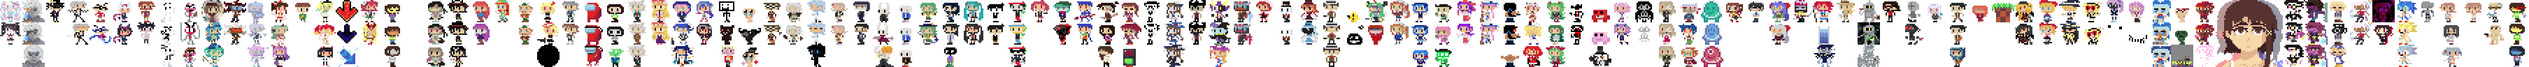
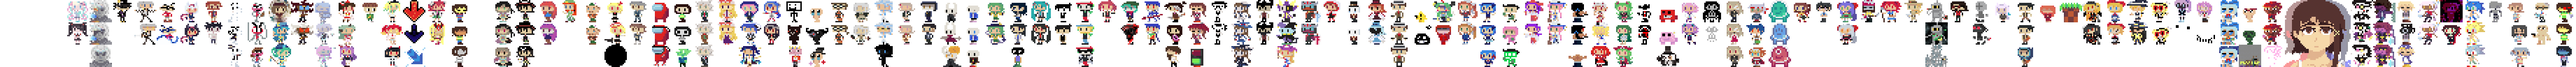
i did

diff --git a/index.html b/index.html
@@ -3,7 +3,7 @@
 
 
 <head>
-    <title>aeon from the internet</title>
+    <title>THE IMPOSSIBLE PIXEL CHALLENGE</title>
     <meta charset="utf-8">
     <meta name="impossible pixels" content="AEON'S IMPOSSIBLE PIXEL CHALLENGE">
 	<link href='https://fonts.googleapis.com/css?family=Philosopher' rel='stylesheet'>
@@ -60,12 +60,24 @@
 	maribel.src = "./pixels/maribel.png";
 	const where = new Image(10, 10);
 	where.src = "./pixels/where.png";
+
+	const hal = new Image(10, 10);
+	hal.src = "./pixels/hal.png";
+	const sakura = new Image(10, 10);
+	sakura.src = "./pixels/sakura.png";
+
+	const unknown = new Image(10, 10);
+	unknown.src = "./pixels/unknown.png";
 //}
 
 //loadimages();
 
 //var yabusame = Array(100).fill([false, false, false]);
 var yabusame = [
+[false, false, false],
+[false, false, false], [false, false, false], [false, false, false], [false, false, false], [false, false, false], [false, false, false], [false, false, false], [false, false, false], [false, false, false], [false, false, false],
+[false, false, false], [false, false, false], [false, false, false], [false, false, false], [false, false, false], [false, false, false], [false, false, false], [false, false, false], [false, false, false], [false, false, false],
+
 [false, false, false], [false, false, false], [false, false, false], [false, false, false], [false, false, false], [false, false, false], [false, false, false], [false, false, false], [false, false, false], [false, false, false],
 [false, false, false], [false, false, false], [false, false, false], [false, false, false], [false, false, false], [false, false, false], [false, false, false], [false, false, false], [false, false, false], [false, false, false],
 [false, false, false], [false, false, false], [false, false, false], [false, false, false], [false, false, false], [false, false, false], [false, false, false], [false, false, false], [false, false, false], [false, false, false],
@@ -422,10 +434,10 @@ new pixelguy(["Kakkoi"], ["game"], "Gensokyo Odyssey", "comment")],
 new pixelguy(["Stephanie Lazarus Stephens", "lazarus"], ["game?"], "Stephanie Lazarus Stephens", ":)")],
 
 [new pixelguy(["Fuku Tohri", "fuku", "aeon", "minecraft", "thing"], ["player"], "Aeon", "Giving my own Minecraft skin such a name?\nNah, she's too cool to be stuck on blockgame.\nOne of these days, she'll probably meet the mediator.", true),
-new pixelguy(["when the im.png", "sus", "jerma", "impostor", "test", "when"], ["file"], "i made it", "when the um if the impostor was there was going to be an impostor and he could um if he was could have been any of us you wouldnt really like probably um actually dont worry about it", true),
-new pixelguy(["s_mistake", "mistake"], ["file"], "i made it", "", true)],
+new pixelguy(["when the im.png", "sus", "jerma", "impostor", "test", "when"], ["file"], "i made it", "when the um if the impostor was there was going to be an impostor and he could um if he was could have been any of us you wouldnt really like probably um actually dont worry about it", true),],
 
-[new pixelguy(["Kyoka Itazura", "kyoka", "bread man gf", "girlfriend"], ["game"], "Bread Man: the Visual Novel", "Future-knowing anachronist.", true)],
+[new pixelguy(["Kyoka Itazura", "kyoka", "bread man gf", "girlfriend"], ["game"], "Bread Man: the Visual Novel", "Future-knowing anachronist.", true),
+new pixelguy(["s_mistake", "mistake"], ["file"], "i made it", "", true)],
 
 [new pixelguy(["Cirno Fumo (version 1.5)", "cirno", "fumo", "1.5"], ["real"], "ROYALCAT", "Is it just me, or is something weird about to happen...?"),
 new pixelguy(["Cirno Fumo (tanned version)", "tan", "hsifs", "16", "black"], ["real"], "ROYALCAT", "fomu..................."),
@@ -637,38 +649,51 @@ function step() {
 				break;
 			
 		}
-	} else if (pos[0] < 0) {
+	} else if (pos[0]-dlcount < 0) {
 		description = "Type \"save\" at any time to save, and \"load\" at any time to load.\nGet a certain amount of them correct, and unlock the next ten!\nPixels with stars are actually almost impossible, so don't worry about them much.";
 	} else {
 		//secrets = false;
 	}
-	pos[0] = clamp(pos[0], 0, 9+unlockstage*10+dlcount);//suzumi.length-1);
+	if (pixelgets >= 150) {
+		pos[0] = clamp(pos[0], 0, 9+unlockstage*10+dlcount);//suzumi.length-1);
+	} else {
+		pos[0] = clamp(pos[0], dlcount, 9+unlockstage*10+dlcount);//suzumi.length-1);
+	}
 	pos[1] = clamp(pos[1], 0, suzumi[pos[0]].length-1);
 	//pixelzone.clearRect(0, 0, 1000, 400);
 	//cameralooky = (pos[0]-6)*48
 	
-	if (pos[0]-dlcount <= 92 && (pos[0]-dlcount <= 79 || pos[0]-dlcount >= 83)) {
-		cameralimit = 5267-defposx-47+(unlockstage-10)*480-48-48+dlcount*48;
-		cameralimit = clamp(cameralimit, 0, 5267-defposx-47+(9-10)*480-48-48-300)
-    	difference = clamp((pos[0]-4)*48, 0, cameralimit);
+	if (pos[0]-dlcount <= 92 && (pos[0]-dlcount <= 79 || pos[0]-dlcount >= 83) && pos[0]-dlcount >= 0) {
+		cameralimit = 5200-defposx-47+(unlockstage-10)*480-48-48+dlcount*48;
+		cameralimit = clamp(cameralimit, 1056, 6300-defposx-47+(9-10)*480-48-48-300)
+    	difference = clamp((pos[0]-4)*48, 1056, cameralimit);
 		
 	} else {
-		if (pos[0]-dlcount <= 90) {
-			difference = clamp((81-4)*48, 0, cameralimit);
+		if (pos[0]-dlcount == -22) {
+			cameralimit = 529;
+			difference = -500;
+		} else if (pos[0]-dlcount == -21) {
+			cameralimit = 529;
+			difference = -340;
+		} else if (pos[0]-dlcount == -20) {
+			cameralimit = 529;
+			difference = -340;
+		} else if (pos[0]-dlcount < 0) {
+			cameralimit = 529;
+			difference = clamp((pos[0]-4)*48, 80, cameralimit);
+		} else if (pos[0]-dlcount <= 90) {
+			difference = clamp((81-4+dlcount)*48, 0, cameralimit);
 		} else if (pos[0]-dlcount <= 96) {
-			cameralimit = 5267-defposx;
-			difference = clamp(4450, 0, cameralimit);
-		} else if (pos[0]-dlcount <= 0) {
-			cameralimit = 200;
-			difference = cameralimit;
+			cameralimit = 6300-defposx;
+			difference = clamp(5510, 0, cameralimit);
 		} else {
-			cameralimit = 4740;
+			cameralimit = 5796;
 			difference = cameralimit;
 		}
 	}
 
 	camerapos += (difference-camerapos)*.2;
-	cameramod = defposx-camerapos-693;
+	cameramod = defposx-camerapos-693+192;
 	pixelzone.fillStyle = "pink";
 	//pixelzone.fillRect(0, 0, 1000, 400);
 	
@@ -714,16 +739,16 @@ function drawlayerback() {
     
 	pixelzone.shadowColor = "rgba(1,1,1,0.6)";
 	pixelzone.shadowBlur = 4;
-	pixelzone.drawImage(biggerpixels, defposx-cameramod-48-693+48, 0, 4458, 144, defposx-48, defposy, 4458, 144);
+	pixelzone.drawImage(biggerpixels, defposx-cameramod-48-693+48+144, 0, 4458, 144, defposx-48, defposy, 4458, 144);
 	//pixelzone.drawImage(biggerpixels, defposx, defposy);
 	for (var i=0; i<suzumi.length; i++) {
         for (var j=0; j<suzumi[i].length; j++) {
-			if (i < 93 && i != 81 && Math.abs((camerapos/48)-i) < 10) {
-				if (suzumi[i][j].special) {
-					pixelzone.drawImage(impossiblestar, 0, 0, 16, 16, (i*48)+cameramod, (j%10)*48+defposy, 48, 48);
+			if (i < 93 && i != 81 && Math.abs((camerapos/48)-i) < 10 && i-dlcount > -20) {
+				if (suzumi[i][j].special%2) {
+					pixelzone.drawImage(impossiblestar, 0, 0, 16, 16, (i*48)+cameramod+693-192, (j%10)*48+defposy, 48, 48);
 				}
 				if (suzumi[i][j].completed) {
-					pixelzone.drawImage(diditoutline, 0, 0, 16, 16, (i*48)+cameramod, (j%10)*48+defposy, 48, 48);
+					pixelzone.drawImage(diditoutline, 0, 0, 16, 16, (i*48)+cameramod+693-192, (j%10)*48+defposy, 48, 48);
 				}
 			}
 			
@@ -764,6 +789,18 @@ function drawlayerpixels() {
 			case 99:
 			pixelzone.shadowColor = "#C696FF";
 				pixelzone.drawImage(maribel, 0, 0, 16, 16, 90, 105, 128, 128);
+				break;
+			case -20:
+			pixelzone.shadowColor = "#3f3f74";
+				pixelzone.drawImage(hal, 0, 0, 16, 16, 90, 105, 128, 128);
+				break;
+			case -21:
+			pixelzone.shadowColor = "#9595a4";
+				pixelzone.drawImage(sakura, 0, 0, 16, 16, 90, 105, 128, 128);
+				break;
+			case -22:
+			pixelzone.shadowColor = "#FFFFFF";
+				pixelzone.drawImage(unknown, 0, 0, 16, 16, 90, 105, 128, 128);
 				break;
 		}
 	} else if (pos[0] == 84-dlcount && pos[1] == 1) {
@@ -850,8 +887,8 @@ function drawlayerui() {
 	
 	
 	
-	if (pos[0]-dlcount <= 92 && (pos[0]-dlcount <= 79 || pos[0]-dlcount >= 83)) {
-    	cursorpos = cameramod+pos[0]*48-6+693;
+	if (pos[0]-dlcount <= 92 && (pos[0]-dlcount <= 79 || pos[0]-dlcount >= 83) && pos[0]-dlcount > -20) {
+    	cursorpos = cameramod+pos[0]*48-6+693-192;
 		cursorpos1 = pos[1]*48-6+defposy;
 	} else {
 		switch (pos[0]-dlcount) {
@@ -868,32 +905,44 @@ function drawlayerui() {
 				cursorpos = 125;
 				break;
 			case 93:
-				cursorpos = 4960-(Math.random()*80)-camerapos;
+				cursorpos = 6016-(Math.random()*80)-camerapos;
 				cursorpos1 = 185+(Math.random()*30)-15;
 				break;
 			case 94:
-				cursorpos = 4960+(Math.random()*8)-4-camerapos;
+				cursorpos = 6016+(Math.random()*8)-4-camerapos;
 				cursorpos1 = 185+(Math.random()*8)-4;
 				break;
 			case 95:
-				cursorpos = 4960+(Math.random()*45)-camerapos;
+				cursorpos = 6016+(Math.random()*45)-camerapos;
 				cursorpos1 = 185-(Math.random()*80);
 				break;
 			case 96:
-				cursorpos = 4960+(Math.random()*80)-camerapos;
+				cursorpos = 6016+(Math.random()*80)-camerapos;
 				cursorpos1 = 185+(Math.random()*30)-15;
 				break;
 			case 97:
-				cursorpos = 5205-camerapos;
+				cursorpos = 6260-camerapos;
 				cursorpos1 = 142;
 				break;
 			case 98:
-				cursorpos = 5280-camerapos;
+				cursorpos = 6335-camerapos;
 				cursorpos1 = 220;
 				break;
 			case 99:
-				cursorpos = 5385-camerapos;
+				cursorpos = 6440-camerapos;
 				cursorpos1 = 171;
+				break;
+			case -20:
+				cursorpos = 145-camerapos;
+				cursorpos1 = 156;
+				break;
+			case -21:
+				cursorpos = 87-camerapos;
+				cursorpos1 = 156;
+				break;
+			case -22:
+				cursorpos = -170-camerapos;
+				cursorpos1 = 147;
 				break;
 		}
 	}
@@ -975,7 +1024,7 @@ document.addEventListener('keydown', function(event) {
 			shifting = true;
 			break;
 		case 35:
-			pos[0] = 9+unlockstage*10;
+			pos[0] = 9+unlockstage*10+dlcount;
 			break;
 		
 		case 36:
@@ -1002,6 +1051,11 @@ function guess() {
 	} else if (myguy == "load") {
 		load();
 		clearinput();
+		return;
+	} else if (myguy == "cheats") {
+		pixelgets = 300;
+		clearinput();
+		unlockcheck();
 		return;
 	}
 	if (suzumi[pos[0]][pos[1]].completed) {
